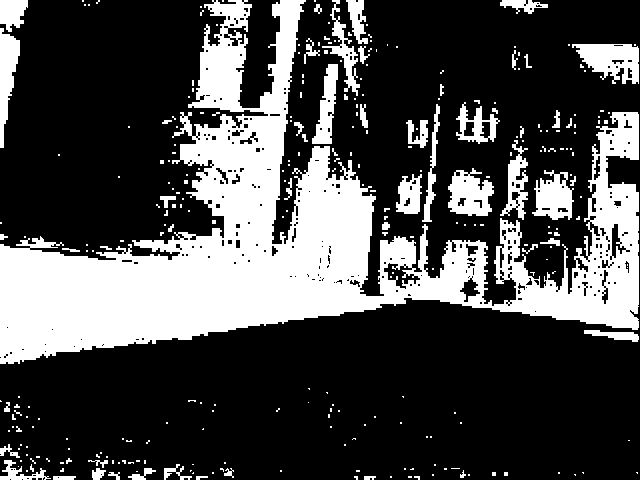
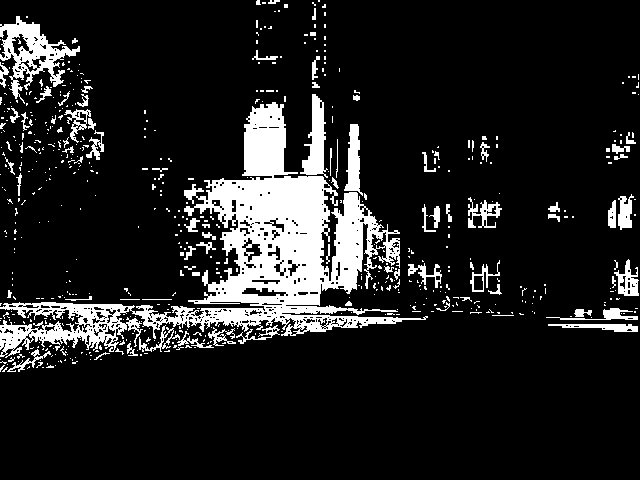
yo

diff --git a/lidar.py b/lidar.py
@@ -106,7 +106,7 @@ def trackpavementangle(img_result):
             columns = dim[1]
             hsv = cv2.cvtColor(img, cv2.COLOR_BGR2HSV)
             #(hue,sat,value)
-            lower_thresh = np.array([30,0,50])
+            lower_thresh = np.array([30,0,95])
             upper_thresh = np.array([100,255,225])
             mask = cv2.inRange(hsv, lower_thresh, upper_thresh)
             cv2.imwrite('Cameratester.png',img)
